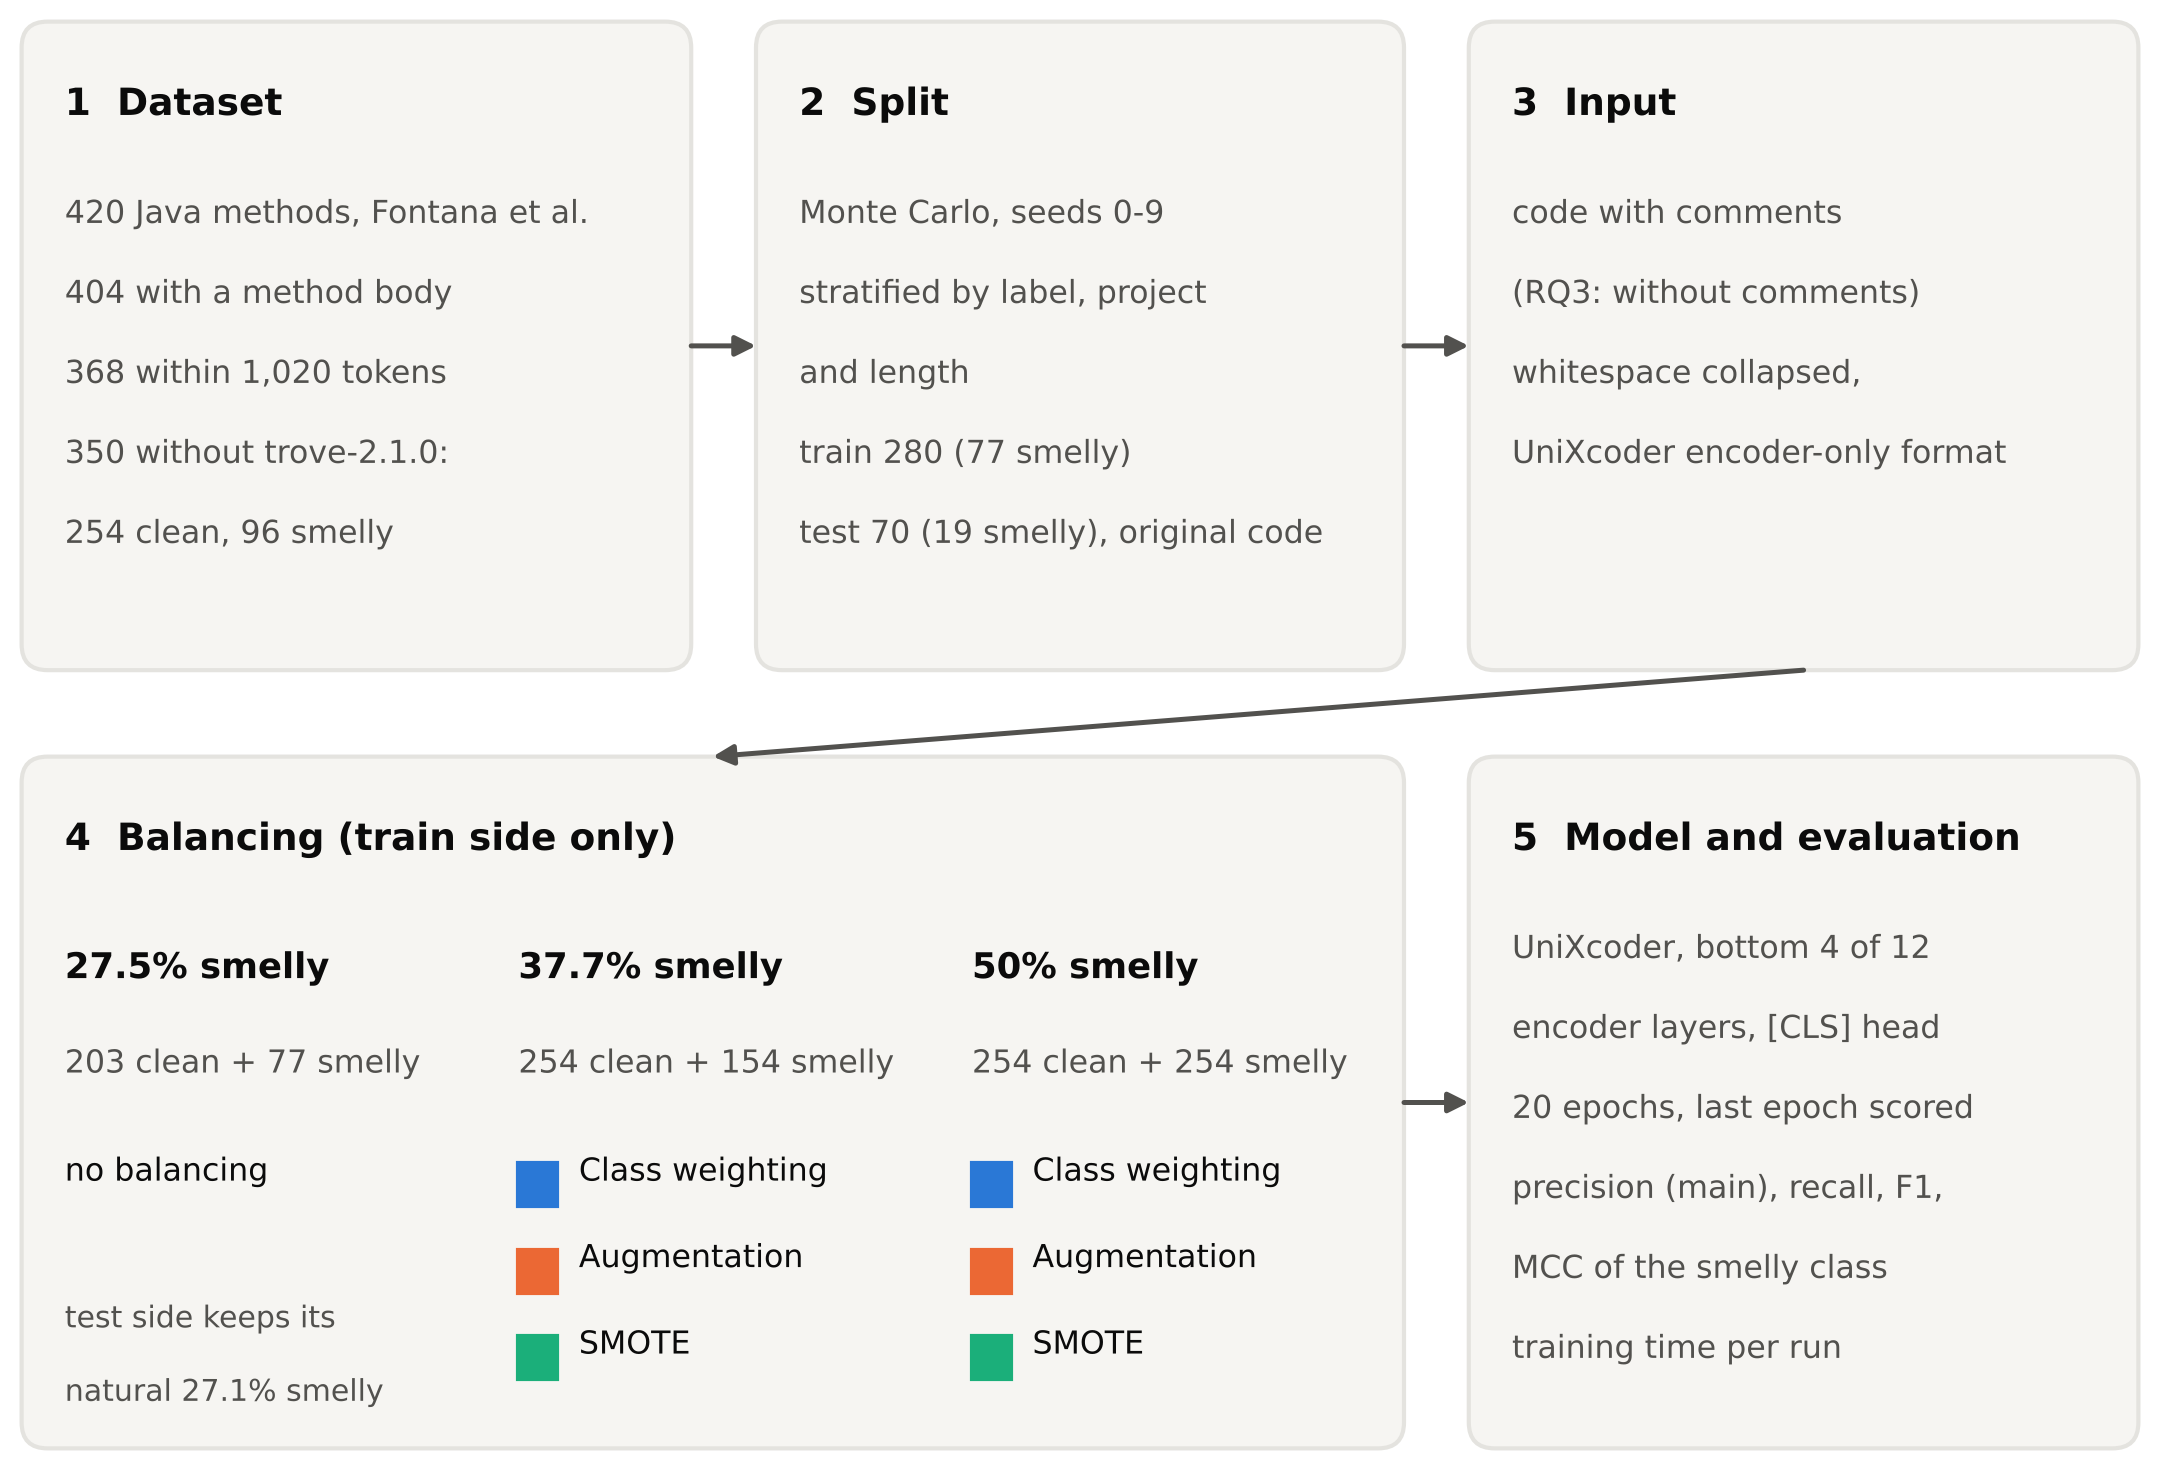
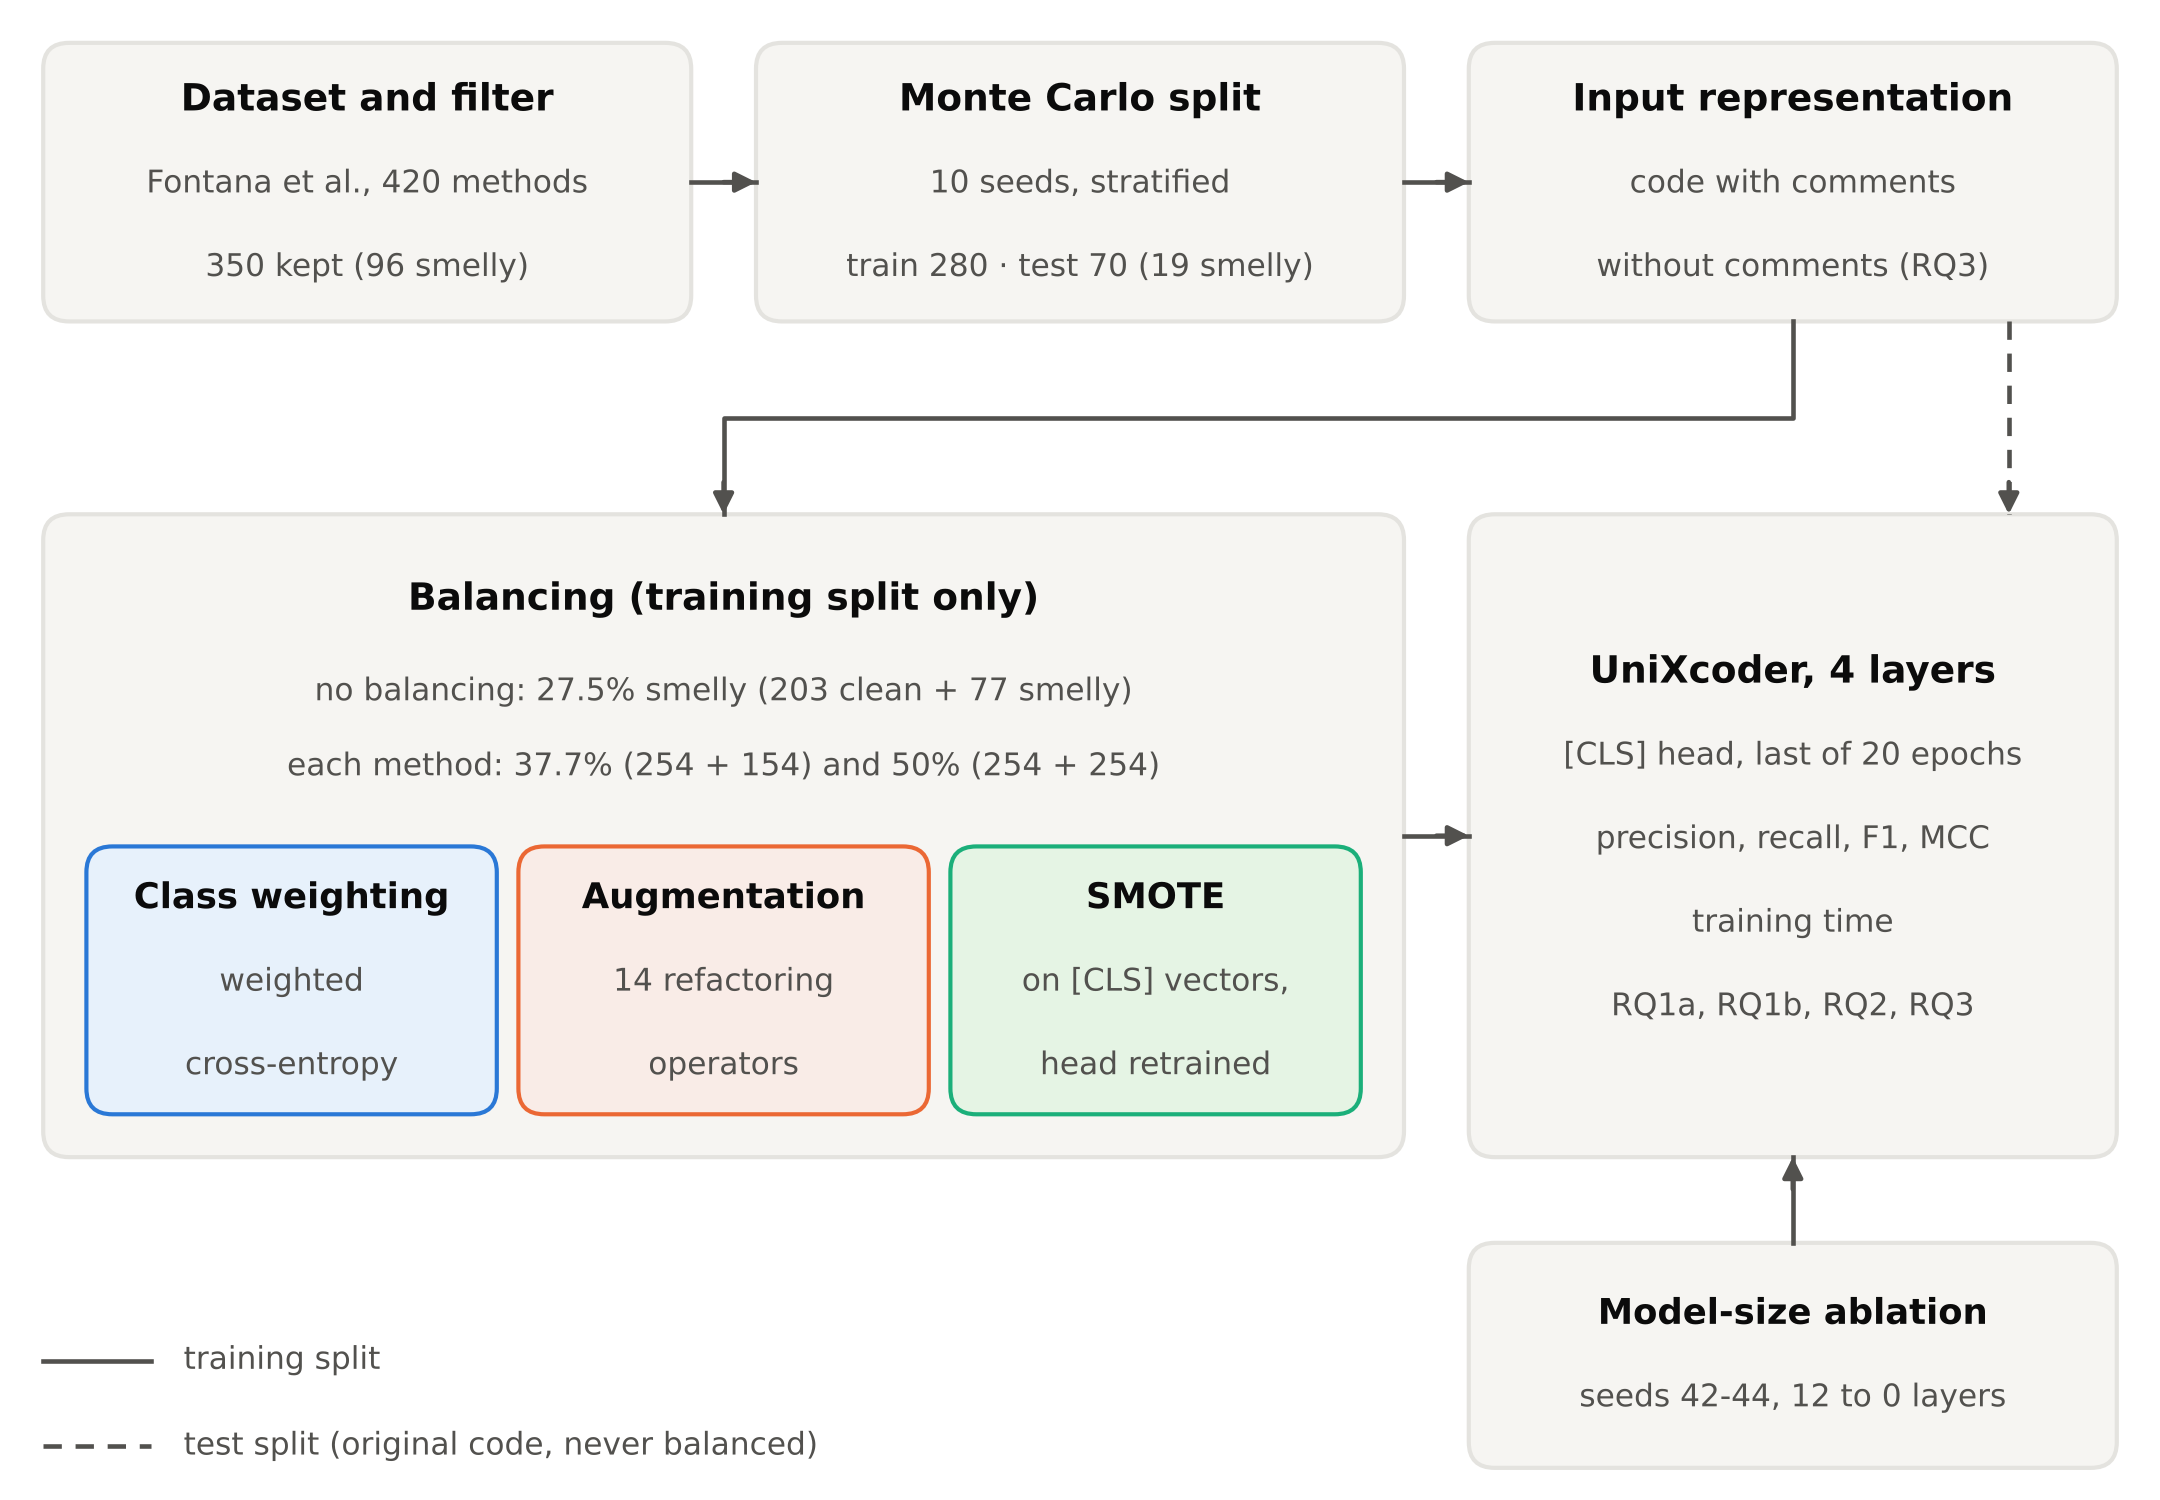
Redraw Figure 1 as a flow with the training and test paths
The training split runs through balancing (the three methods in their
chart colors, with the train set size at each smelly share) into the
4-layer UniXcoder; the test split reaches the model as original code
(dashed). The model-size ablation feeds the layer choice. White
background for print; energy is left out of the model box because only
the ablation measured it.

Claude-Session: https://claude.ai/code/session_017rhwVyM5rhv5k17AN45Ux5

diff --git a/scripts/7_study_flow.py b/scripts/7_study_flow.py
@@ -1,16 +1,16 @@
-"""Figure 1 of the paper: the study in five steps, with the counts taken from the data files.
+"""Figure 1 of the paper: the study at a glance, with the counts taken from the data files.
 
 Draws figures/figure1_study_flow.png from switch_statements.csv (the methods
-of Fontana's dataset that have a body), token_counts.csv (methods with a body and their token counts) and
-datasets/dataset_seed0.csv (one Monte Carlo
-split; every seed has the same counts):
-
-  1 Dataset      Fontana's Switch Statements methods and the filters down to the 350 kept
-  2 Split        Monte Carlo cross-validation, train and test sizes
-  3 Input        code with comments (the RQ3 ablation removes them), UniXcoder format
-  4 Balancing    the smelly share of the train side and the methods applied at each share,
-                 with the train set size; this replaces a table of the scenarios
-  5 Model        UniXcoder kept to 4 encoder layers, and the reported metrics
+of Fontana's dataset that have a body), token_counts.csv (their token counts)
+and datasets/dataset_seed0.csv (one Monte Carlo split; every seed has the same
+counts). Top row: dataset and filter, Monte Carlo split, input representation.
+The training split then goes through balancing (no balancing at the natural
+27.5% smelly; class weighting, augmentation and SMOTE at 37.7% and 50%, with
+the train set size of each share, which replaces a table of the scenarios)
+into UniXcoder kept to 4 encoder layers; the test split goes to the model as
+original code (dashed line). The model-size ablation (seeds 42-44) feeds the
+choice of 4 layers. Energy is not listed for the model: only the ablation
+measured it.
 
 Usage:
     pip install matplotlib
@@ -28,6 +28,8 @@ FILL = "#f6f5f2"
 # from the 404 that have a method body (the 16 without one are all clean)
 FONTANA_METHODS = 420
 METHODS = [("Class weighting", "#2a78d6"), ("Augmentation", "#eb6834"), ("SMOTE", "#1baf7a")]
+# Light tints of the method colors, from the editor's cell palette, for the method boxes
+TINTS = {"Class weighting": "#e7f1fb", "Augmentation": "#f9ece7", "SMOTE": "#e5f4e4"}
 
 
 def read(path):
@@ -60,85 +62,95 @@ def counts(source_path, tokens_path, dataset_path, fit_col, exclude):
 
 
 def draw(c, out):
+    """Three steps on top lead into the balancing of the training split (solid lines) and,
+    for the test split, straight to the model (dashed: original code, never balanced); the
+    model-size ablation feeds the choice of four encoder layers."""
     import matplotlib
     matplotlib.use("Agg")
     import matplotlib.pyplot as plt
     from matplotlib.patches import FancyBboxPatch
 
     plt.rcParams.update({"font.family": "sans-serif", "font.sans-serif": ["DejaVu Sans"]})
-    fig = plt.figure(figsize=(7.2, 4.9))
+    fig = plt.figure(figsize=(7.2, 5.0))
     ax = fig.add_axes([0, 0, 1, 1])
     ax.set_xlim(0, 100)
-    ax.set_ylim(0, 68)
+    ax.set_ylim(0, 70)
     ax.axis("off")
 
-    def box(x, y, w, h, number, title, lines):
+    def box(x, y, w, h, title, lines, fill=FILL, edge=GRID, size=9):
         ax.add_patch(FancyBboxPatch((x, y), w, h, boxstyle="round,pad=0,rounding_size=1.2",
-                                    facecolor=FILL, edgecolor=GRID, linewidth=1))
-        ax.text(x + 2, y + h - 3, f"{number}  {title}", fontsize=9, fontweight="bold", color=INK, va="top")
-        for i, line in enumerate(lines):
-            ax.text(x + 2, y + h - 8.2 - i * 3.7, line, fontsize=7.6, color=MUTED, va="top")
+                                    facecolor=fill, edgecolor=edge, linewidth=1))
+        top = y + h / 2 + 1.9 * len(lines)
+        ax.text(x + w / 2, top, title, ha="center", va="center", fontsize=size, fontweight="bold", color=INK)
+        for i, line in enumerate(lines, start=1):
+            ax.text(x + w / 2, top - 3.9 * i, line, ha="center", va="center", fontsize=7.5, color=MUTED)
 
-    def arrow(x0, y0, x1, y1):
-        ax.annotate("", xy=(x1, y1), xytext=(x0, y0),
-                    arrowprops=dict(arrowstyle="-|>", color=MUTED, linewidth=1.2, shrinkA=0, shrinkB=0))
+    def line(points, dashed=False, head=True):
+        xs, ys = zip(*points)
+        ax.plot(xs[:-1] + (xs[-1],), ys, color=MUTED, linewidth=1.1, linestyle=(0, (4, 3)) if dashed else "-")
+        if head:
+            # Only the last stretch carries the arrowhead, so a dashed line stays dashed
+            (x0, y0), (x1, y1) = points[-2], points[-1]
+            length = ((x1 - x0) ** 2 + (y1 - y0) ** 2) ** 0.5
+            ax.annotate("", xy=(x1, y1), xytext=(x1 - (x1 - x0) * 1.5 / length, y1 - (y1 - y0) * 1.5 / length),
+                        arrowprops=dict(arrowstyle="-|>", color=MUTED, linewidth=1.1, shrinkA=0, shrinkB=0))
 
-    # Top row: dataset, split, input
-    top, h = 37, 30
-    box(1, top, 31, h, 1, "Dataset", [
-        f"{c['source']} Java methods, Fontana et al.",
-        f"{c['with_body']} with a method body",
-        f"{c['fit']} within 1,020 tokens",
-        f"{c['kept']} without {c['excluded']}:",
-        f"{c['kept_clean']} clean, {c['kept_smell']} smelly",
+    # Top row: data, split, input
+    top, h = 55, 13
+    box(2, top, 30, h, "Dataset and filter", [
+        f"Fontana et al., {c['source']} methods",
+        f"{c['kept']} kept ({c['kept_smell']} smelly)",
     ])
-    box(35, top, 30, h, 2, "Split", [
-        "Monte Carlo, seeds 0-9",
-        "stratified by label, project",
-        "and length",
-        f"train {c['train']} ({c['train_smell']} smelly)",
-        f"test {c['test']} ({c['test_smell']} smelly), original code",
+    box(35, top, 30, h, "Monte Carlo split", [
+        "10 seeds, stratified",
+        f"train {c['train']} \u00b7 test {c['test']} ({c['test_smell']} smelly)",
     ])
-    box(68, top, 31, h, 3, "Input", [
+    box(68, top, 30, h, "Input representation", [
         "code with comments",
-        "(RQ3: without comments)",
-        "whitespace collapsed,",
-        "UniXcoder encoder-only format",
+        "without comments (RQ3)",
     ])
-    arrow(32, top + h / 2, 35, top + h / 2)
-    arrow(65, top + h / 2, 68, top + h / 2)
+    line([(32, top + h / 2), (35, top + h / 2)])
+    line([(65, top + h / 2), (68, top + h / 2)])
 
-    # Bottom row: balancing (train side only), model and evaluation
-    bottom, hb = 1, 32
-    ax.add_patch(FancyBboxPatch((1, bottom), 64, hb, boxstyle="round,pad=0,rounding_size=1.2",
+    # Balancing of the training split, with the three methods
+    bx, by, bw, bh = 2, 16, 63, 30
+    ax.add_patch(FancyBboxPatch((bx, by), bw, bh, boxstyle="round,pad=0,rounding_size=1.2",
                                 facecolor=FILL, edgecolor=GRID, linewidth=1))
-    ax.text(3, bottom + hb - 3, "4  Balancing (train side only)", fontsize=9, fontweight="bold", color=INK,
-            va="top")
     shares = sorted(c["shares"].items())
-    for i, (pct, (clean, smell)) in enumerate(shares):
-        x = 3 + i * 21
-        ax.text(x, bottom + hb - 9, f"{pct:g}% smelly", fontsize=8.5, fontweight="bold", color=INK, va="top")
-        ax.text(x, bottom + hb - 13.5, f"{clean} clean + {smell} smelly", fontsize=7.6, color=MUTED, va="top")
-        if i == 0:
-            ax.text(x, bottom + hb - 18.5, "no balancing", fontsize=7.6, color=INK, va="top")
-        else:
-            for j, (name, color) in enumerate(METHODS):
-                yy = bottom + hb - 18.5 - j * 4
-                ax.add_patch(plt.Rectangle((x, yy - 2.3), 1.8, 2.0, color=color))
-                ax.text(x + 2.8, yy, name, fontsize=7.6, color=INK, va="top")
-    # Under the no-balancing column, the only one with room below its text
-    ax.text(3, bottom + 5.6, "test side keeps its", fontsize=7.2, color=MUTED)
-    ax.text(3, bottom + 2.2, "natural 27.1% smelly", fontsize=7.2, color=MUTED)
-    box(68, bottom, 31, hb, 5, "Model and evaluation", [
-        "UniXcoder, bottom 4 of 12",
-        "encoder layers, [CLS] head",
-        "20 epochs, last epoch scored",
-        "precision (main), recall, F1,",
-        "MCC of the smelly class",
-        "training time per run",
+    (base, (base_clean, base_smell)), rest = shares[0], shares[1:]
+    ax.text(bx + bw / 2, by + bh - 4, "Balancing (training split only)", ha="center", va="center",
+            fontsize=9, fontweight="bold", color=INK)
+    ax.text(bx + bw / 2, by + bh - 8.3, f"no balancing: {base:g}% smelly ({base_clean} clean + {base_smell} smelly)",
+            ha="center", va="center", fontsize=7.5, color=MUTED)
+    ax.text(bx + bw / 2, by + bh - 11.8, "each method: " + " and ".join(f"{p:g}% ({cl} + {sm})" for p, (cl, sm) in rest),
+            ha="center", va="center", fontsize=7.5, color=MUTED)
+    details = {"Class weighting": ["weighted", "cross-entropy"], "Augmentation": ["14 refactoring", "operators"],
+               "SMOTE": ["on [CLS] vectors,", "head retrained"]}
+    for i, (name, color) in enumerate(METHODS):
+        x = bx + 2 + i * 20
+        box(x, by + 2, 19, 12.5, name, details[name], fill=TINTS[name], edge=color, size=8.5)
+
+    # Model, fed by the balanced training split and by the original test split
+    mx, my, mw, mh = 68, 16, 30, 30
+    box(mx, my, mw, mh, "UniXcoder, 4 layers", [
+        "[CLS] head, last of 20 epochs",
+        "precision, recall, F1, MCC",
+        "training time",
+        "RQ1a, RQ1b, RQ2, RQ3",
     ])
-    arrow(83.5, top, 33, bottom + hb)
-    arrow(65, bottom + hb / 2, 68, bottom + hb / 2)
+    line([(83, top), (83, 50.5), (33.5, 50.5), (33.5, by + bh)])
+    line([(93, top), (93, my + mh)], dashed=True)
+    line([(bx + bw, by + bh / 2), (mx, by + bh / 2)])
+
+    # Model-size ablation, which chose the four layers
+    box(68, 1.5, 30, 10.5, "Model-size ablation", ["seeds 42-44, 12 to 0 layers"], size=8.5)
+    line([(83, 12), (83, my)])
+
+    # Legend
+    ax.plot([2, 7], [6.5, 6.5], color=MUTED, linewidth=1.1)
+    ax.text(8.5, 6.5, "training split", va="center", fontsize=7.5, color=MUTED)
+    ax.plot([2, 7], [2.5, 2.5], color=MUTED, linewidth=1.1, linestyle=(0, (4, 3)))
+    ax.text(8.5, 2.5, "test split (original code, never balanced)", va="center", fontsize=7.5, color=MUTED)
 
     os.makedirs(os.path.dirname(out) or ".", exist_ok=True)
     fig.savefig(out, dpi=300)
